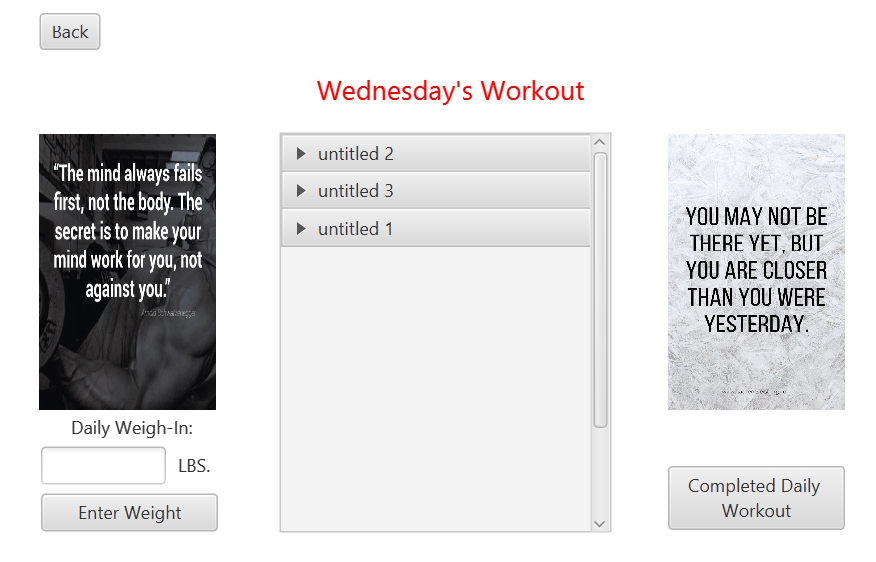
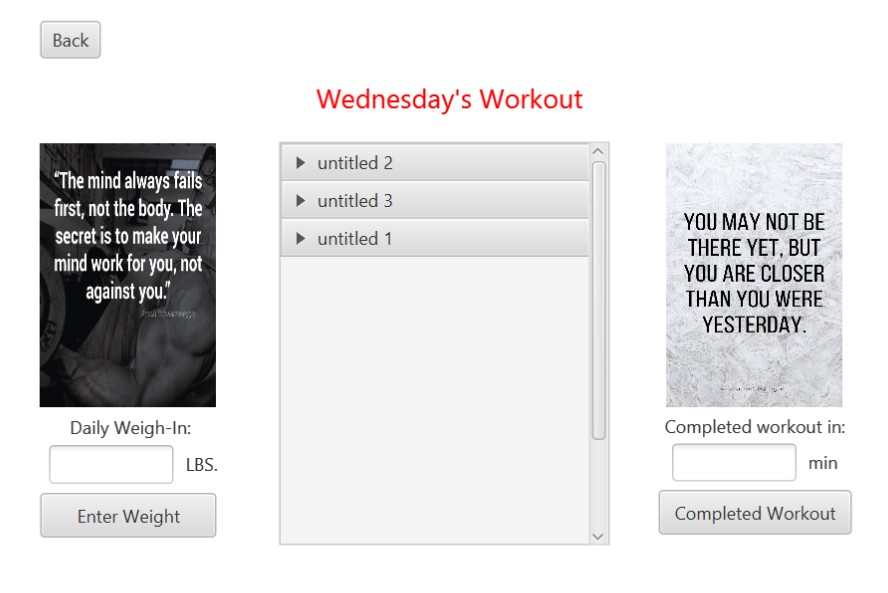
Added documentation, error handling
> Added use case scenario for Enter Weight.
> Added use case scenario for Enter Workout
Duration.
> Added use case scenario for View Stats.
> Updated wireframes.
> Added error handling for bad user data in
weight and workout duration fields.

diff --git a/code/src/main/java/workout_manager/view/DailyDetailsController.java b/code/src/main/java/workout_manager/view/DailyDetailsController.java
@@ -54,17 +54,32 @@ public class DailyDetailsController {
     private Button completedWorkoutButton;
 
     @FXML
+    private Label userInputErrorLabel;
+
+    @FXML
     void handleCompletedWorkoutButton(ActionEvent event) {
-        double duration = Double.valueOf(this.workoutDurationTextField.getText());
-        this.mcm.addUserWorkoutCompletionTimeEntry(duration);
-        this.workoutDurationTextField.setText("");
+        this.userInputErrorLabel.setVisible(false);
+        try {
+            double duration = Double.valueOf(this.workoutDurationTextField.getText());
+            this.mcm.addUserWorkoutCompletionTimeEntry(duration);
+        } catch (Exception exc) {
+            this.userInputErrorLabel.setVisible(true);
+        } finally {
+            this.workoutDurationTextField.setText("");  
+        }       
     }
 
     @FXML
     void handleEnterWeightButton(ActionEvent event) {
-        double weight = Double.parseDouble(this.weightTextField.getText());
-        this.mcm.addUserWeightEntry(weight);
-        this.weightTextField.setText("");
+        this.userInputErrorLabel.setVisible(false);
+        try {
+            double weight = Double.parseDouble(this.weightTextField.getText());
+            this.mcm.addUserWeightEntry(weight);    
+        } catch (Exception exc) {
+            this.userInputErrorLabel.setVisible(true);
+        } finally {
+            this.weightTextField.setText("");    
+        }
     }
 
     @FXML
@@ -128,5 +143,6 @@ public class DailyDetailsController {
         this.dayLabel.setText(nameClicked);
         this.setExerciseDetails();
         this.bindButtonVisibility();
+        this.userInputErrorLabel.setVisible(false);
     }
 }
